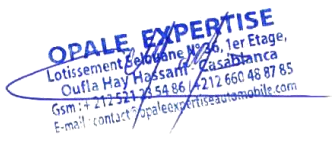
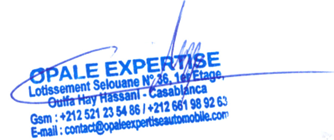
fix cachet + hors taxes rapport

diff --git a/src/services/reportService.js b/src/services/reportService.js
@@ -1190,11 +1190,11 @@ const createMissionReport = (
         formatTableAmount(suppliesTtc),
       ],
       [
-        'Montant total',
+        'Montant total hors taxe',
         '',
         '',
         '',
-        formatTableAmount(grandTotalHt),
+        `${formatTableAmount(grandTotalHt)} HT`,
         formatTableAmount(combinedTva),
         formatTableAmount(combinedTtc),
       ],
